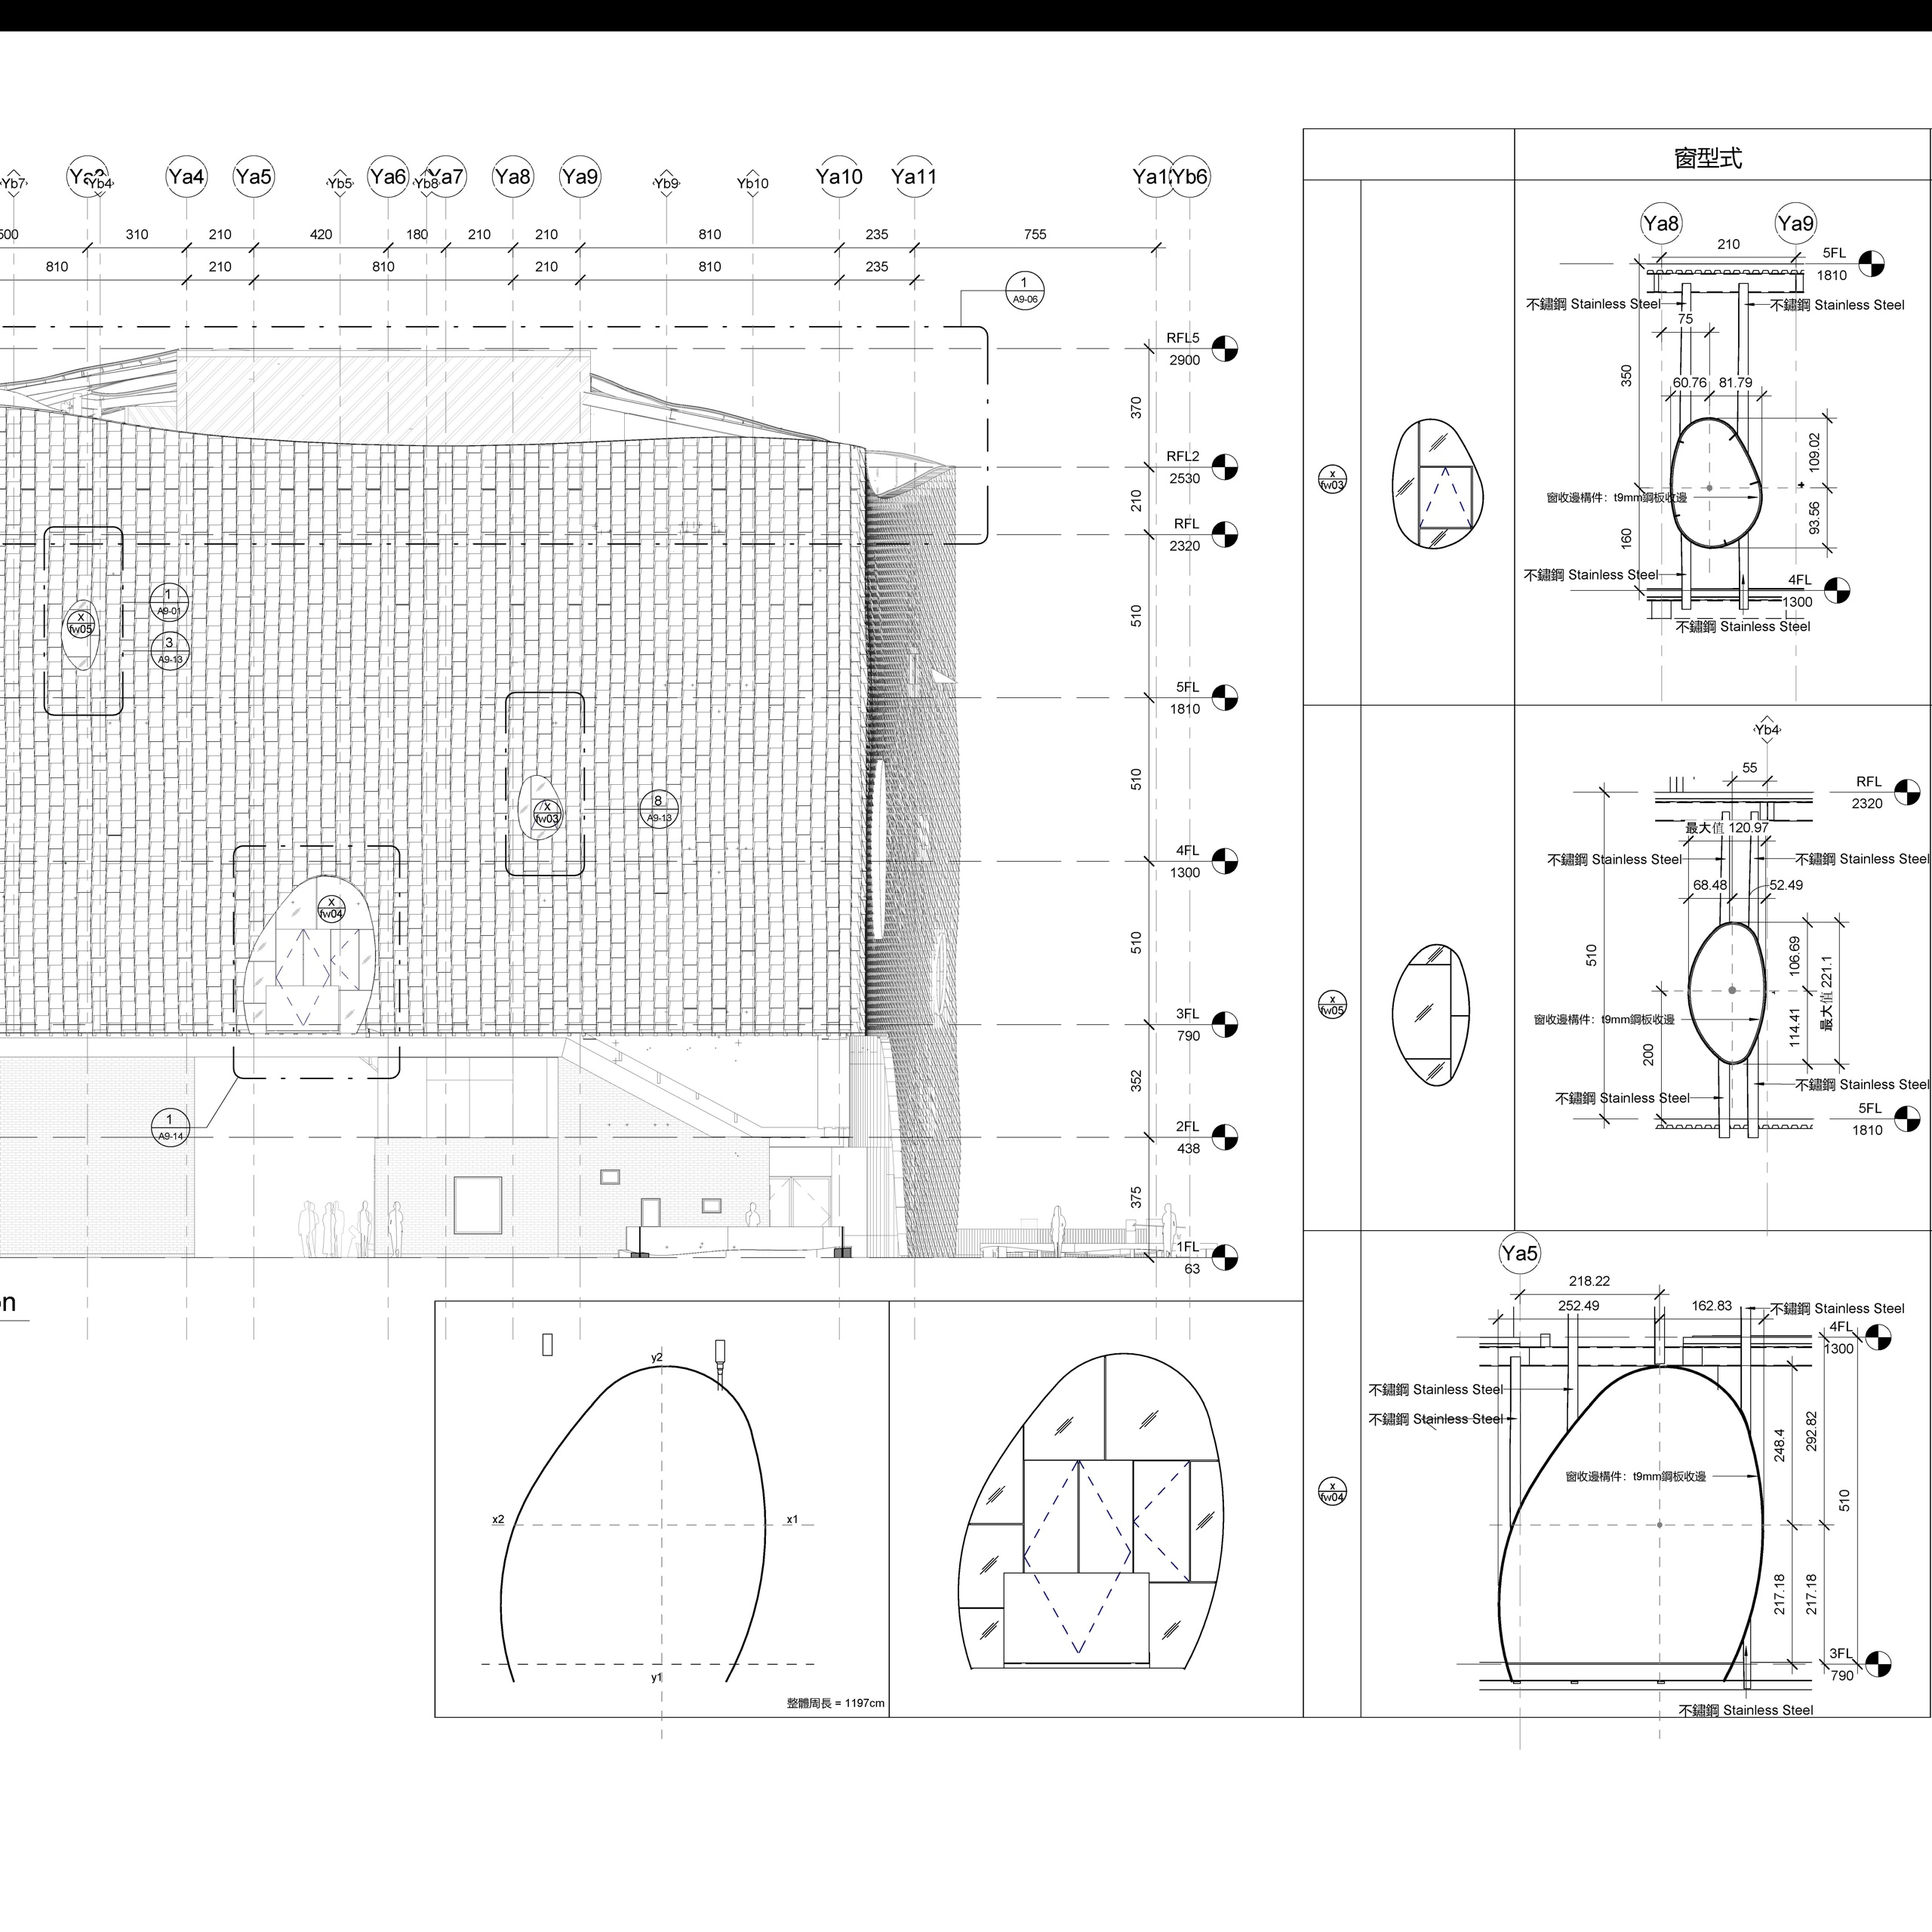
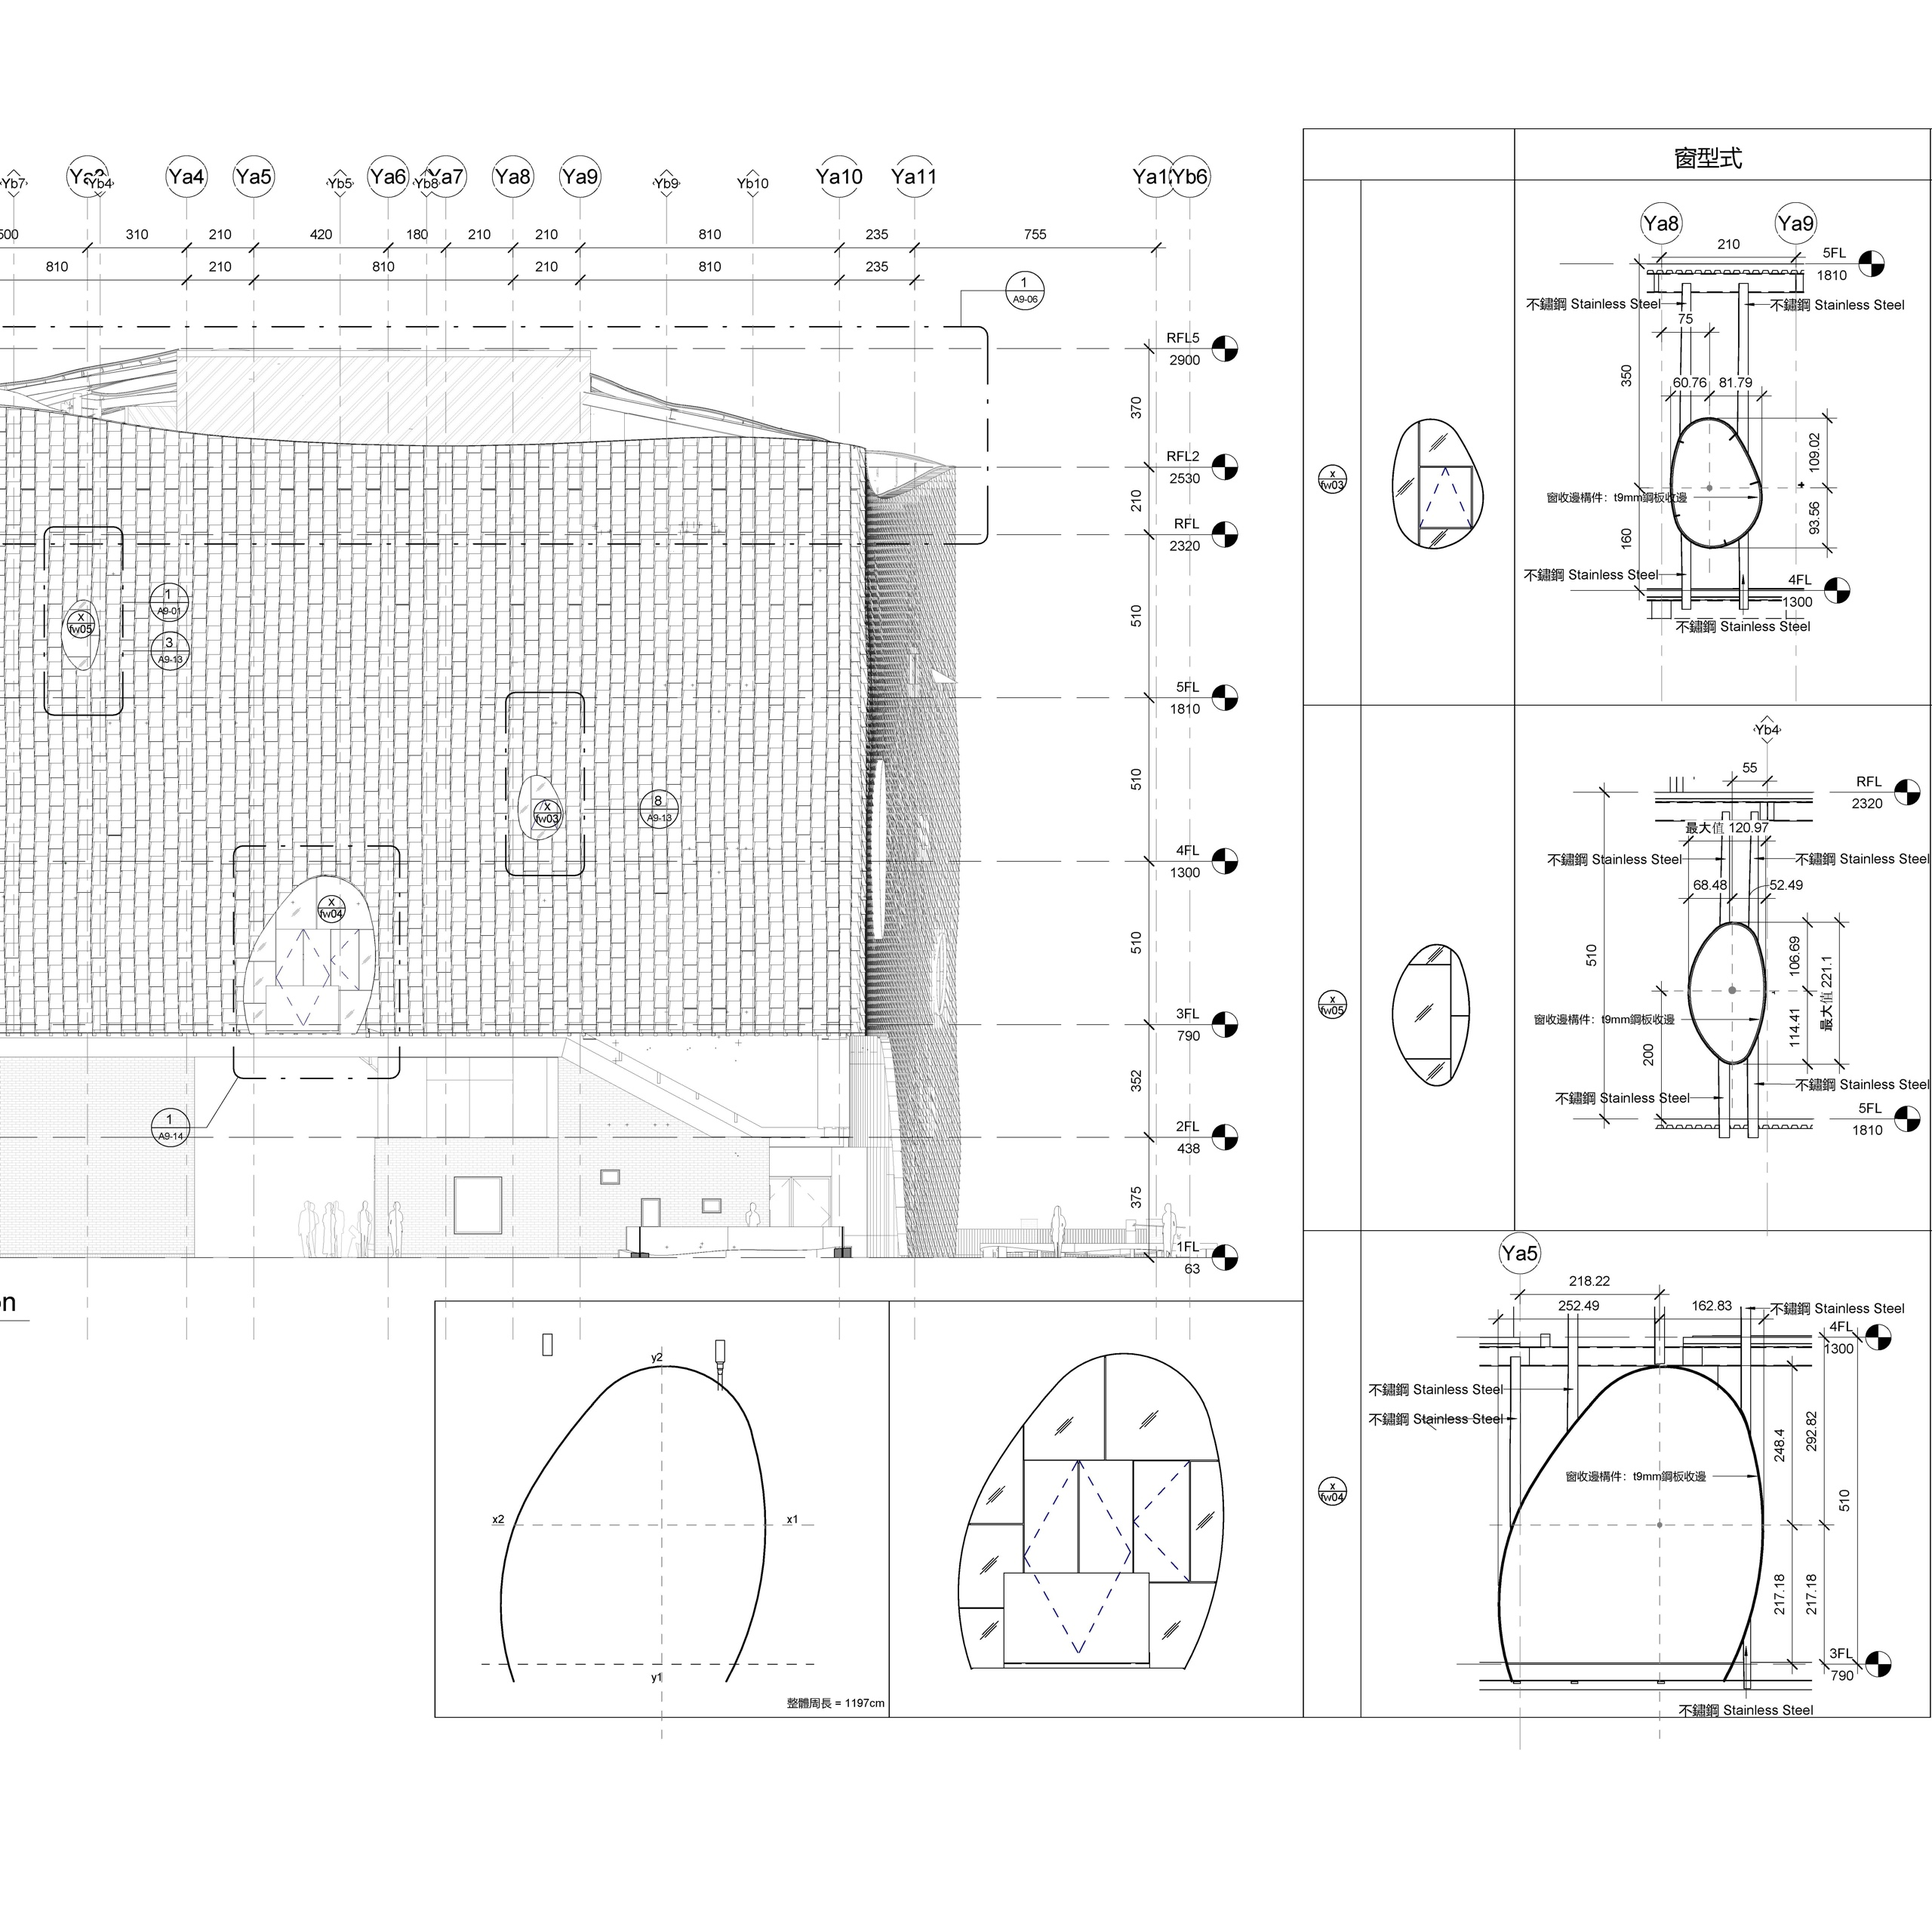
Re-export detailing node 03 elevation drawing (v0.3.07)

Changed region(s): [[0.0, 0.0, 1.0, 0.0312]]

diff --git a/computational-design/detailing/index.html b/computational-design/detailing/index.html
@@ -109,7 +109,7 @@
         <div class="mosaic">
           <figure class="detail" tabindex="0" role="button" data-key="d1" data-num="01"><div class="detail-img" aria-hidden="true"><span class="detail-num">01</span></div><figcaption class="detail-cap"><span class="detail-title" id="d1t">Parapet & roof edge</span><span class="detail-note" id="d1n">Where the roof stops, water wants in. Cap flashing, drip, and continuous membrane turn an edge into a defense.</span></figcaption></figure>
           <figure class="detail" tabindex="0" role="button" data-key="d2" data-num="02"><div class="detail-img" aria-hidden="true"><span class="detail-num">02</span></div><figcaption class="detail-cap"><span class="detail-title" id="d2t">Window head</span><span class="detail-note" id="d2n">The lintel carries load while the head flashing sheds water clear of the frame below.</span></figcaption></figure>
-          <figure class="detail" tabindex="0" role="button" data-key="d3" data-num="03" data-img="/assets/comp-design/detailing-d03-parametric-elevation.jpg"><div class="detail-img"><img src="/assets/comp-design/detailing-d03-parametric-elevation.jpg" alt="Parametric elevation with linked window detail drawings" width="2560" height="2560" loading="lazy" /></div><figcaption class="detail-cap"><span class="detail-title" id="d3t">Parametric elevation &amp; openings</span><span class="detail-note" id="d3n">This elevation and its detail windows are built as a single parametric drawing in which one driving parameter governs the entire window geometry. Changing that single value regenerates the opening's shape and recomputes how it is cut out, propagating the change across the elevation and its linked details. The logic ties back to early AI-driven work, so dependencies resolve automatically instead of requiring manual redrawing. One edit therefore flows fluidly through the construction documents and the set updates itself.</span></figcaption></figure>
+          <figure class="detail" tabindex="0" role="button" data-key="d3" data-num="03" data-img="/assets/comp-design/detailing-d03-parametric-elevation.jpg?v=2"><div class="detail-img"><img src="/assets/comp-design/detailing-d03-parametric-elevation.jpg?v=2" alt="Parametric elevation with linked window detail drawings" width="2560" height="2560" loading="lazy" /></div><figcaption class="detail-cap"><span class="detail-title" id="d3t">Parametric elevation &amp; openings</span><span class="detail-note" id="d3n">This elevation and its detail windows are built as a single parametric drawing in which one driving parameter governs the entire window geometry. Changing that single value regenerates the opening's shape and recomputes how it is cut out, propagating the change across the elevation and its linked details. The logic ties back to early AI-driven work, so dependencies resolve automatically instead of requiring manual redrawing. One edit therefore flows fluidly through the construction documents and the set updates itself.</span></figcaption></figure>
           <figure class="detail" tabindex="0" role="button" data-key="d4" data-num="04"><div class="detail-img" aria-hidden="true"><span class="detail-num">04</span></div><figcaption class="detail-cap"><span class="detail-title" id="d4t">Window sill</span><span class="detail-note" id="d4n">A sloped, flashed sill drains outward and protects the wall beneath the opening.</span></figcaption></figure>
           <div class="hole"><span class="hole-title" id="h1t">Why nodes carry the design</span><p class="hole-body" id="h1b">A building fails at its weakest node. The concept lives or dies at the points where assemblies actually connect — parapet, sill, threshold. Each node is where intent meets gravity, water, and tolerance; resolve one poorly and the whole graph reads the failure.</p></div>
           <figure class="detail" tabindex="0" role="button" data-key="d5" data-num="05"><div class="detail-img" aria-hidden="true"><span class="detail-num">05</span></div><figcaption class="detail-cap"><span class="detail-title" id="d5t">Wall base & grade</span><span class="detail-note" id="d5n">The most punished node: capillary break, flashing, and a clean line where wall meets ground.</span></figcaption></figure>
@@ -151,7 +151,7 @@
       <div class="footer-left">
         <div class="footer-brand">© Iterative Studio</div>
         <div class="footer-note" id="footerNote">Detailing</div>
-        <div class="footer-version" id="buildVersion">Build: v0.3.06</div>
+        <div class="footer-version" id="buildVersion">Build: v0.3.07</div>
       </div>
       <div class="footer-mark" aria-hidden="true">[i]</div>
       <div class="footer-right">
@@ -172,7 +172,7 @@
   </div>
 
   <script>
-const BUILD = "v0.3.06";
+const BUILD = "v0.3.07";
 
 const i18n = {
   en: {
